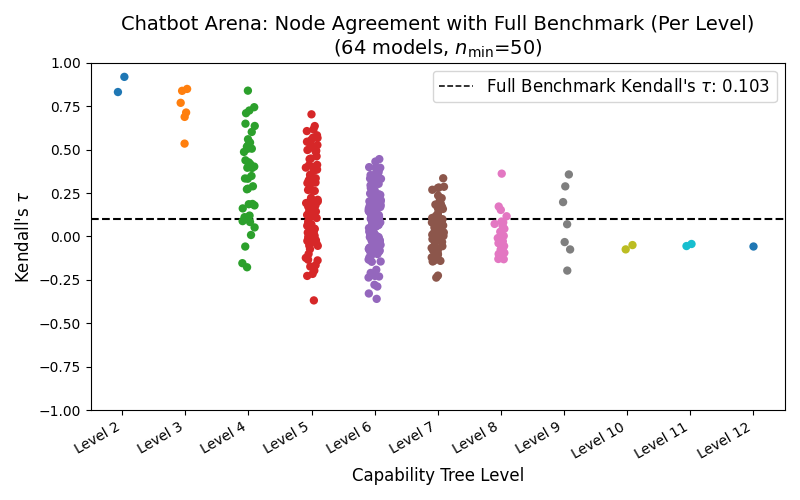
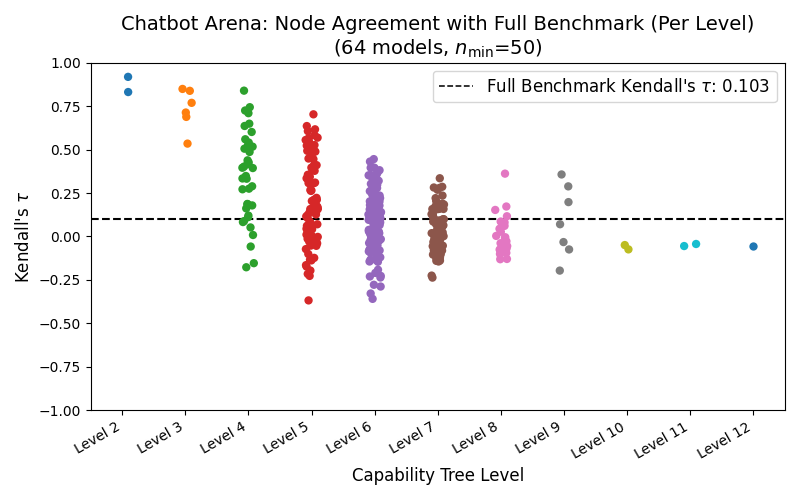
Changed per-level performance plots so they're fauceted by level

diff --git a/scripts/inter_node_analysis.py b/scripts/inter_node_analysis.py
@@ -317,28 +317,26 @@ def plot_per_level_performance_stripplot(
     suptitle_fontsize: int = 18,
     **kwargs,
 ) -> plt.Figure:
-    """Plot per-node model scores for each model, faceted by model.
+    """Plot per-node model scores for each level, faceted by level.
 
-    Produces one strip plot panel per model, arranged in a single column.
-    Within each panel the x-axis shows capability tree levels and the y-axis
-    shows mean node model scores, with one jittered dot per node. A horizontal
-    dashed line marks the benchmark-level mean accuracy for that model.
-    Each panel title reports the model name and its global benchmark score.
-    Nodes are grouped by the ``depth`` column of ``all_nodes_performance_df``.
+    Produces one strip plot panel per capability tree level, arranged in a
+    single column. Within each panel the x-axis shows models and the y-axis
+    shows mean node scores, with one jittered dot per node. A short horizontal
+    black line marks the full-benchmark score for each model, making it easy
+    to see which nodes fall above or below the global baseline.
 
     Args:
         all_nodes_performance_df: DataFrame returned by
             :func:`all_nodes_performance_analysis`, which includes a
             ``depth`` column used to assign each node to a level.
-        levels: Qualifying levels from the capability tree, used to look up
-            the node count and deduplicated instance count for each level.
         dataset: The dataset being analysed, used for axis labels and title.
-        global_ranking: Benchmark-level model scores used as reference lines.
-        num_models: Number of models, used for the figure height.
+        global_ranking: Benchmark-level model scores used as per-model
+            reference lines.
+        num_models: Number of models, used to size the figure width.
         min_instances: Instance threshold used when collecting nodes.
 
     Returns:
-        The matplotlib Figure containing one strip plot panel per model.
+        The matplotlib Figure containing one strip plot panel per level.
     """
     df = all_nodes_performance_df
     ylim = {
@@ -350,8 +348,7 @@ def plot_per_level_performance_stripplot(
 
     models = [col for col in df.columns if col != "depth"]
     depths = sorted(df["depth"].unique())
-    level_labels = [f"Level {int(d)}" for d in depths]
-    level_order = level_labels
+    num_levels = len(depths)
 
     long_df = df.reset_index().melt(
         id_vars=["node", "depth"],
@@ -364,50 +361,32 @@ def plot_per_level_performance_stripplot(
     min_instance_label = r"$n_{\mathrm{min}}$"
 
     fig, axes = plt.subplots(
-        num_models,
+        num_levels,
         1,
-        figsize=(max(8, len(depths) * 1.5), 4 * num_models),
+        figsize=(max(8, num_models * 1.5), 4 * num_levels),
         squeeze=False,
     )
 
-    for i, model in enumerate(models):
-        model_data = long_df[long_df["model"] == model]
-        global_score = global_ranking.get(model)
-
-        x = "level"
-        y = dataset.metric
-        xlabel = ""
-        ylabel = dataset.metric.title()
-        title = model
-        hue = "level"
-        order = level_order
-        palette = "tab10"
-        mean = global_score
-        mean_label = f"Full Benchmark {dataset.metric.title()}"
-        mean_color = "black"
-        mean_linestyle = "--"
-        mean_linewidth = 2
-        rotation = 30
+    for i, depth in enumerate(depths):
+        level_label = f"Level {int(depth)}"
+        level_data = long_df[long_df["level"] == level_label]
 
         plot_stripplot(
-            data=model_data,
+            data=level_data,
             size=size,
-            x=x,
-            y=y,
-            xlabel=xlabel,
-            ylabel=ylabel,
-            title=title,
-            hue=hue,
-            order=order,
-            palette=palette,
+            x="model",
+            y=dataset.metric,
+            xlabel="",
+            ylabel=dataset.metric.title(),
+            title=level_label,
+            hue="model",
+            order=models,
+            palette="tab10",
             ax=axes[i, 0],
-            mean=mean,
-            mean_label=mean_label,
-            mean_color=mean_color,
-            mean_linestyle=mean_linestyle,
-            mean_linewidth=mean_linewidth,
+            x_means=global_ranking,
+            x_means_label=f"Full Benchmark {dataset.metric.title()}",
             ylim=ylim,
-            rotation=rotation,
+            rotation=30,
             tick_fontsize=tick_fontsize,
             legend_fontsize=legend_fontsize,
             label_fontsize=label_fontsize,
